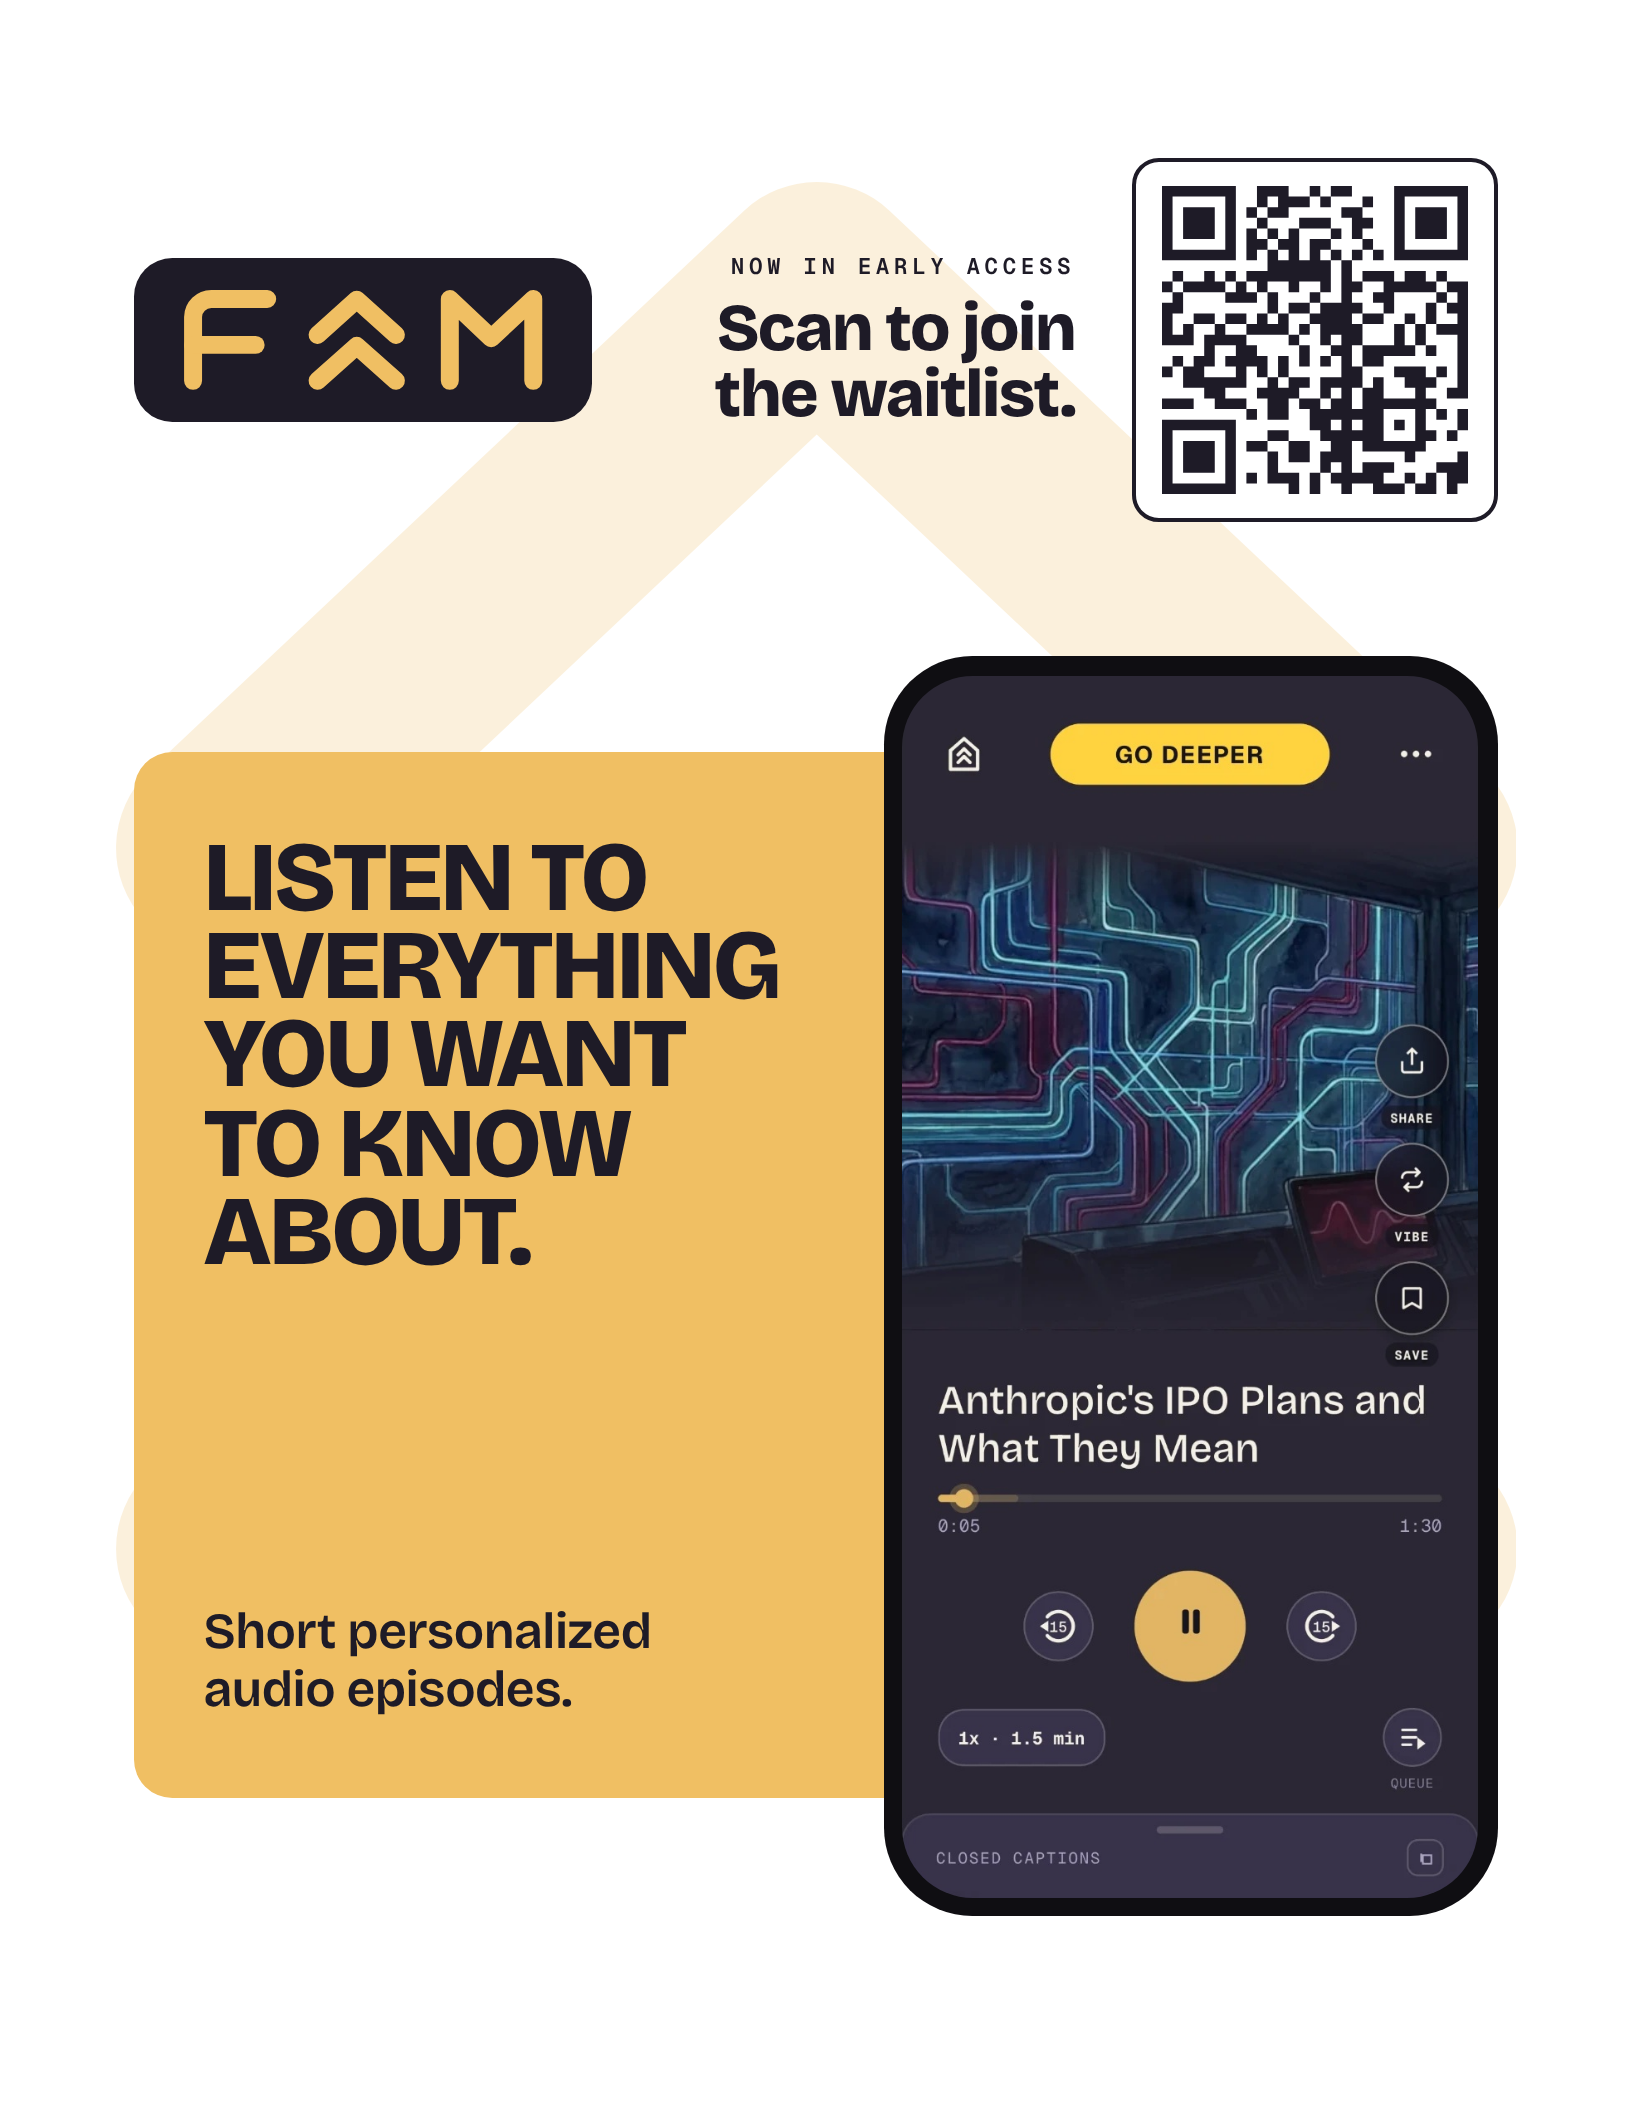
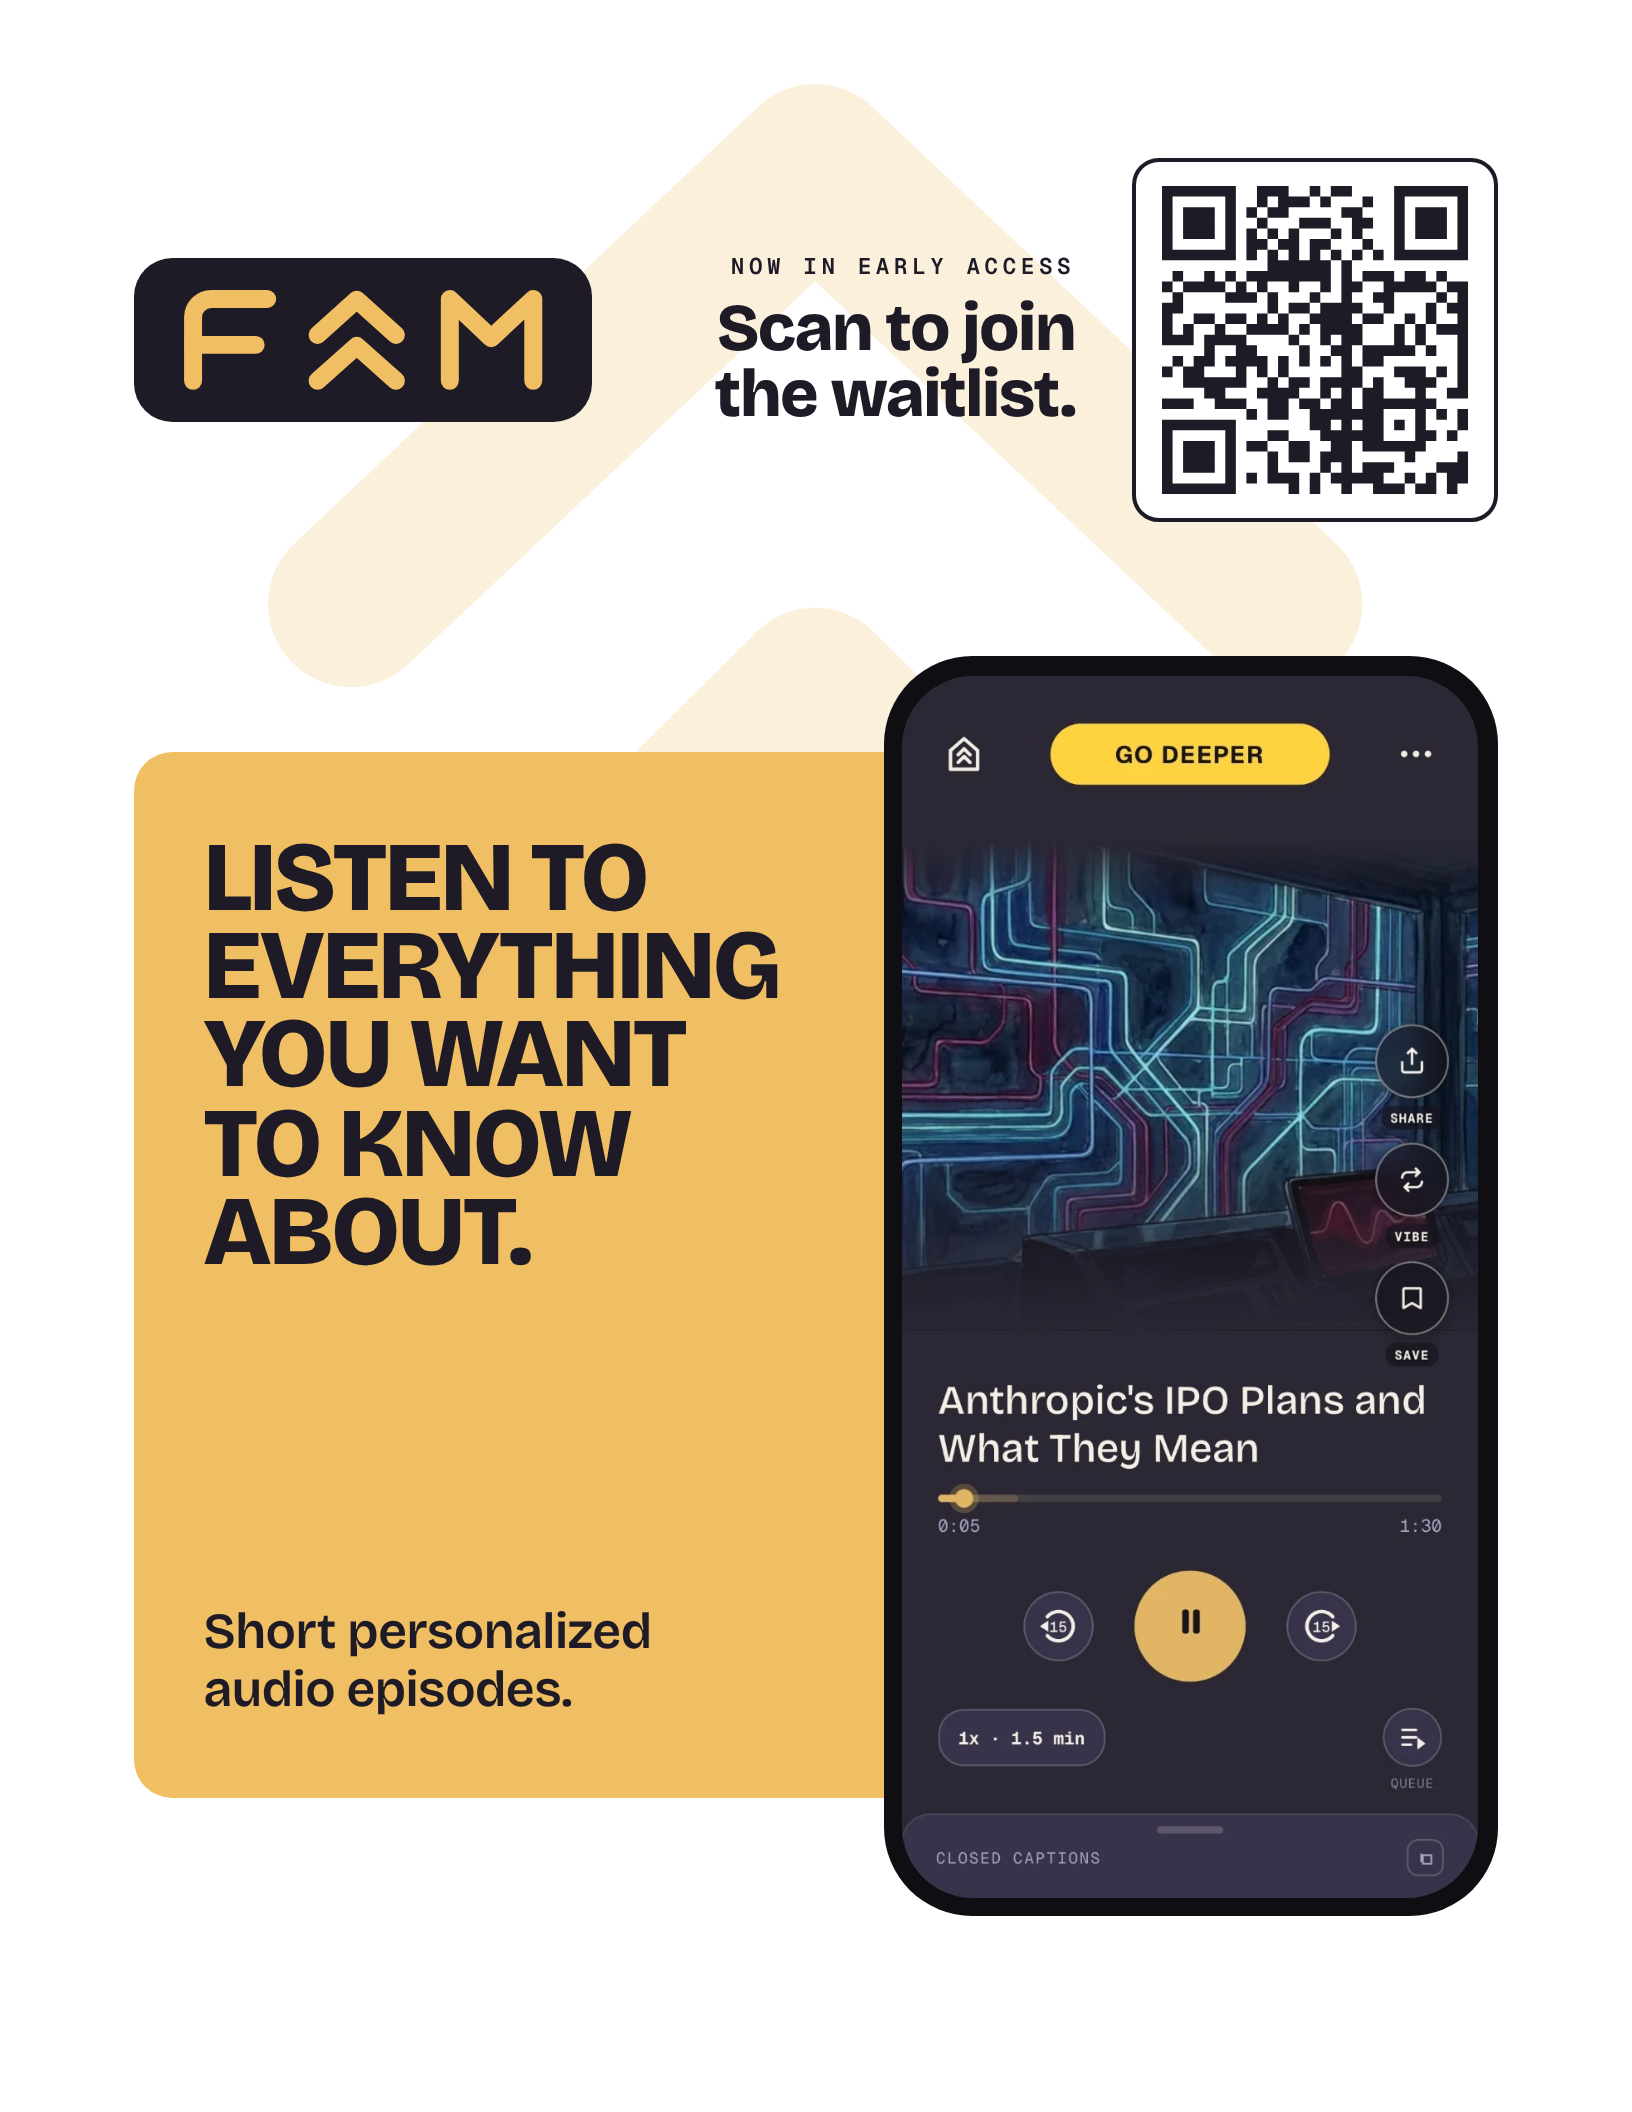
Flyer: raise the background chevron so the second one's top shows
It shrinks to 5.7 in wide and moves to the top of the printable area:
the first chevron stays whole and the second's apex shows above the
gold block.

Claude-Session: https://claude.ai/code/session_01LJfaLuBetgZDE8frAX4KSQ

diff --git a/marketing/flyer/flyer.html b/marketing/flyer/flyer.html
@@ -43,7 +43,7 @@
      printable area: traced from the owner's chevron file (its pixels are the
      path coordinates). */
   .chevron-clip{ position:absolute; inset:0.4in; overflow:hidden; }
-  .chevron{ position:absolute; left:0.2in; top:0.55in; width:7.3in; height:7.673in; opacity:0.22; }
+  .chevron{ position:absolute; left:1.0in; top:0.04in; width:5.7in; height:5.992in; opacity:0.22; }
 
   /* One grid. The logo and the gold block share the left edge; the code and
      the phone share the right edge. The phone stands half over the block and
